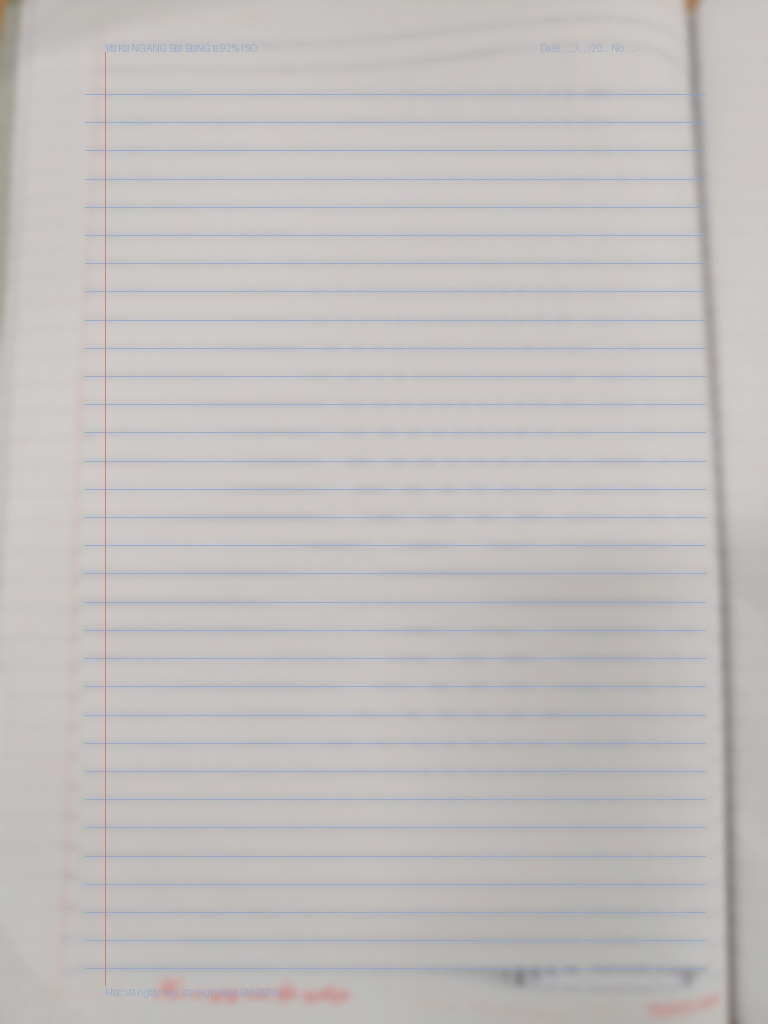
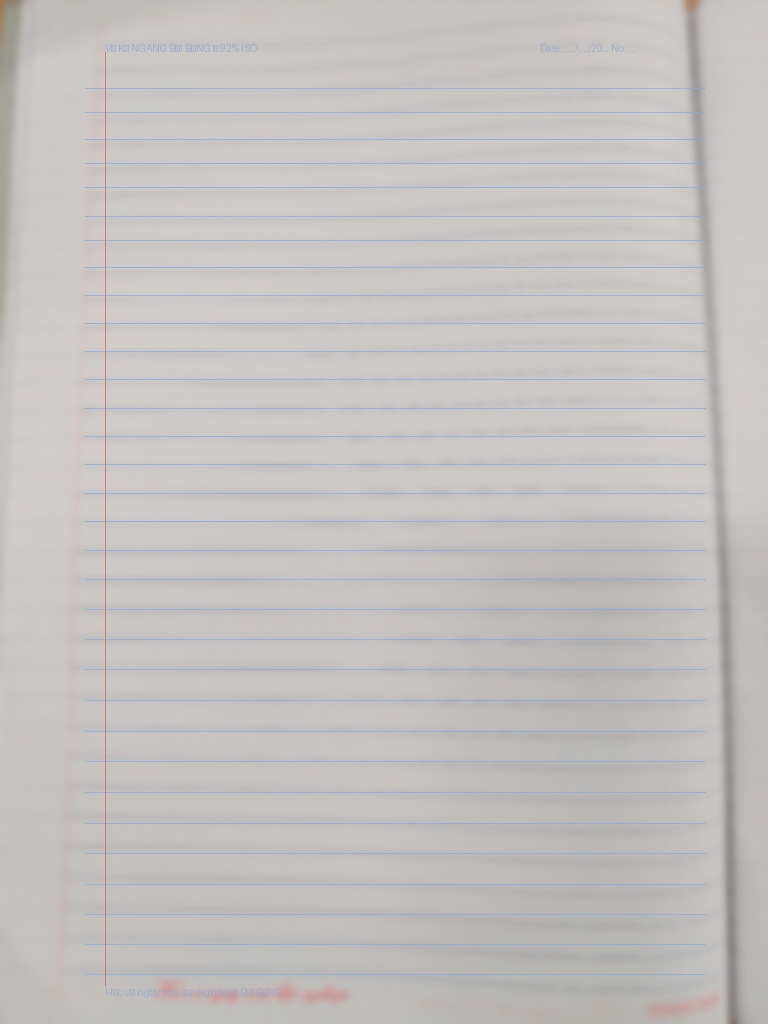
fix(singles): restore pristine authentic camera photo lines and calibrate baseline coordinates without warping artifacts

Changed region(s): [[0.125, 0.3125, 0.9062, 0.3438], [0.5938, 0.9375, 0.75, 0.9688], [0.875, 0.9375, 0.9062, 0.9688]]

diff --git a/index.html b/index.html
@@ -2601,10 +2601,15 @@
     // (100% horizontal alignment, zero drift, zero cutting across lines)
     // ========================================================
     const SPREAD_LINES = [68, 89, 110, 132, 153, 174, 195, 216, 238, 259, 280, 301, 322, 344, 365, 386, 407, 428, 450, 471, 492, 513, 534, 556, 577, 598, 619, 640, 662, 683, 704, 725];
-    const TARGET_TN_SINGLE = [94, 122, 150, 179, 207, 235, 263, 291, 320, 348, 376, 404, 432, 461, 489, 517, 545, 573, 602, 630, 658, 686, 715, 743, 771, 799, 827, 856, 884, 912, 940, 968];
-    const TARGET_HH_SINGLE = [159, 191, 223, 255, 286, 318, 350, 382, 414, 446, 477, 509, 541, 573, 605, 637, 668, 700, 732, 764, 796, 828, 859, 891, 923, 955];
+    const TARGET_TN_SINGLE = [88, 112, 139, 163, 187, 216, 240, 267, 295, 323, 351, 379, 408, 436, 464, 493, 521, 550, 579, 609, 639, 669, 700, 731, 761, 792, 823, 853, 884, 914, 944, 974];
+    const TARGET_HH_SINGLE = [98, 126, 154, 182, 211, 269, 298, 328, 358, 389, 420, 451, 483, 514, 546, 578, 611, 645, 679, 713, 748, 783, 817, 852, 887, 922, 957];
 
     function getNotebookLineContour(baseY, x, leftM, rightM, isSpread, isRightSubpage, templateKey, lIdx, baselines, blOffset) {
+      if (templateKey === 'notebook_hongha_2.jpg') {
+        const progress = Math.max(0, Math.min(1, (x - leftM) / (rightM - leftM)));
+        const tilt = 3.5 - progress * 8.5;
+        return { y: baseY + tilt, angle: -0.014 };
+      }
       return { y: baseY, angle: 0 };
     }
 

diff --git a/sw.js b/sw.js
@@ -1,5 +1,5 @@
 // Service Worker for Chép Tay Tiếng Trung PWA
-const CACHE_NAME = 'cheptay-v5.8.5-seamless-real-photo-spreads';
+const CACHE_NAME = 'cheptay-v5.8.6-pristine-camera-photo-singles';
 const ASSETS_TO_CACHE = [
   './',
   './index.html',
